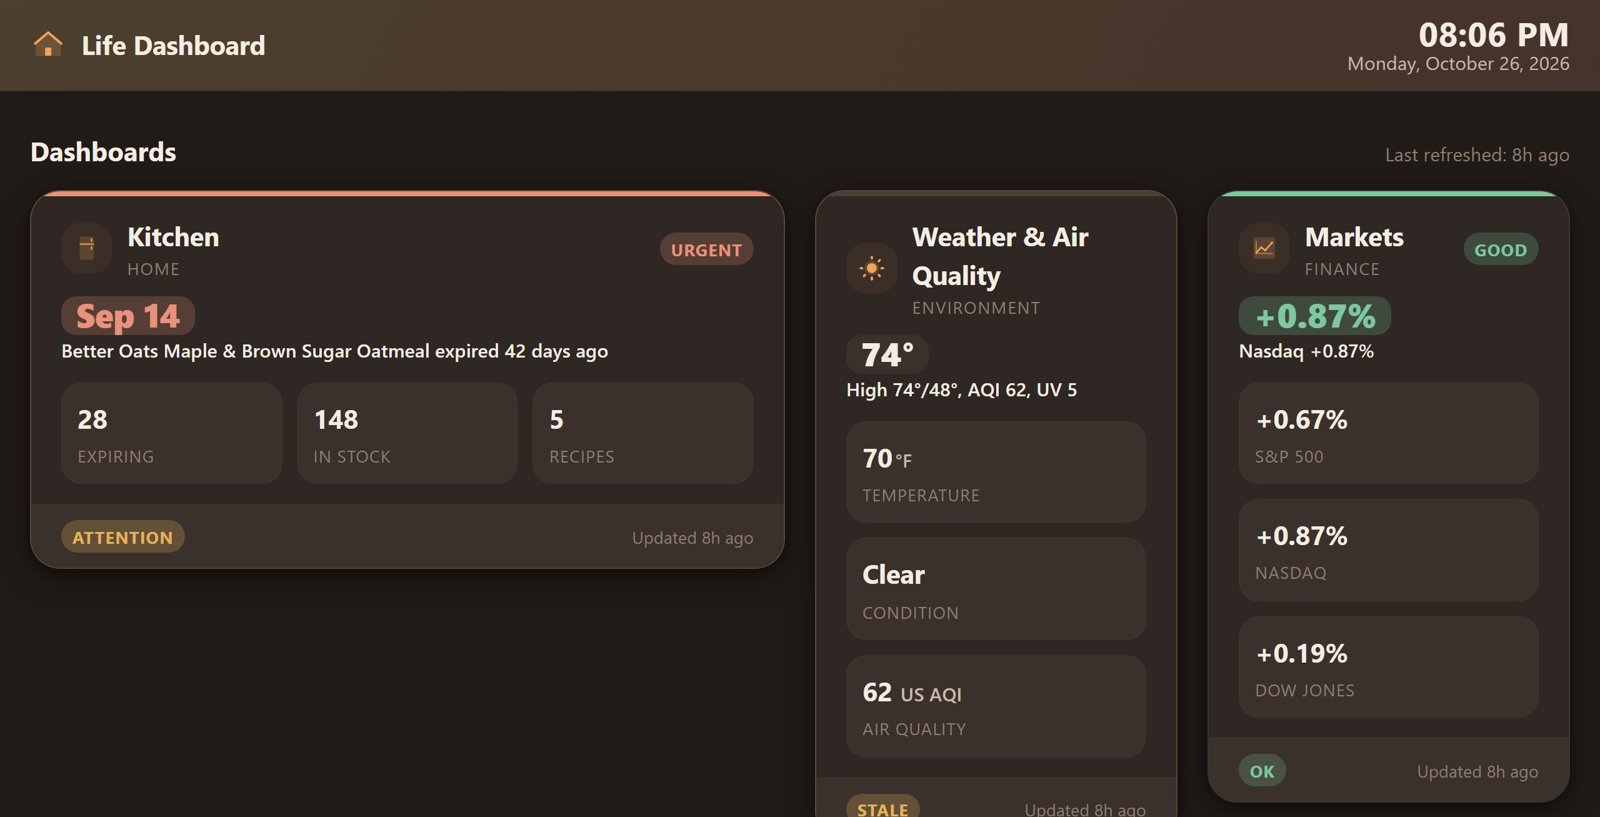
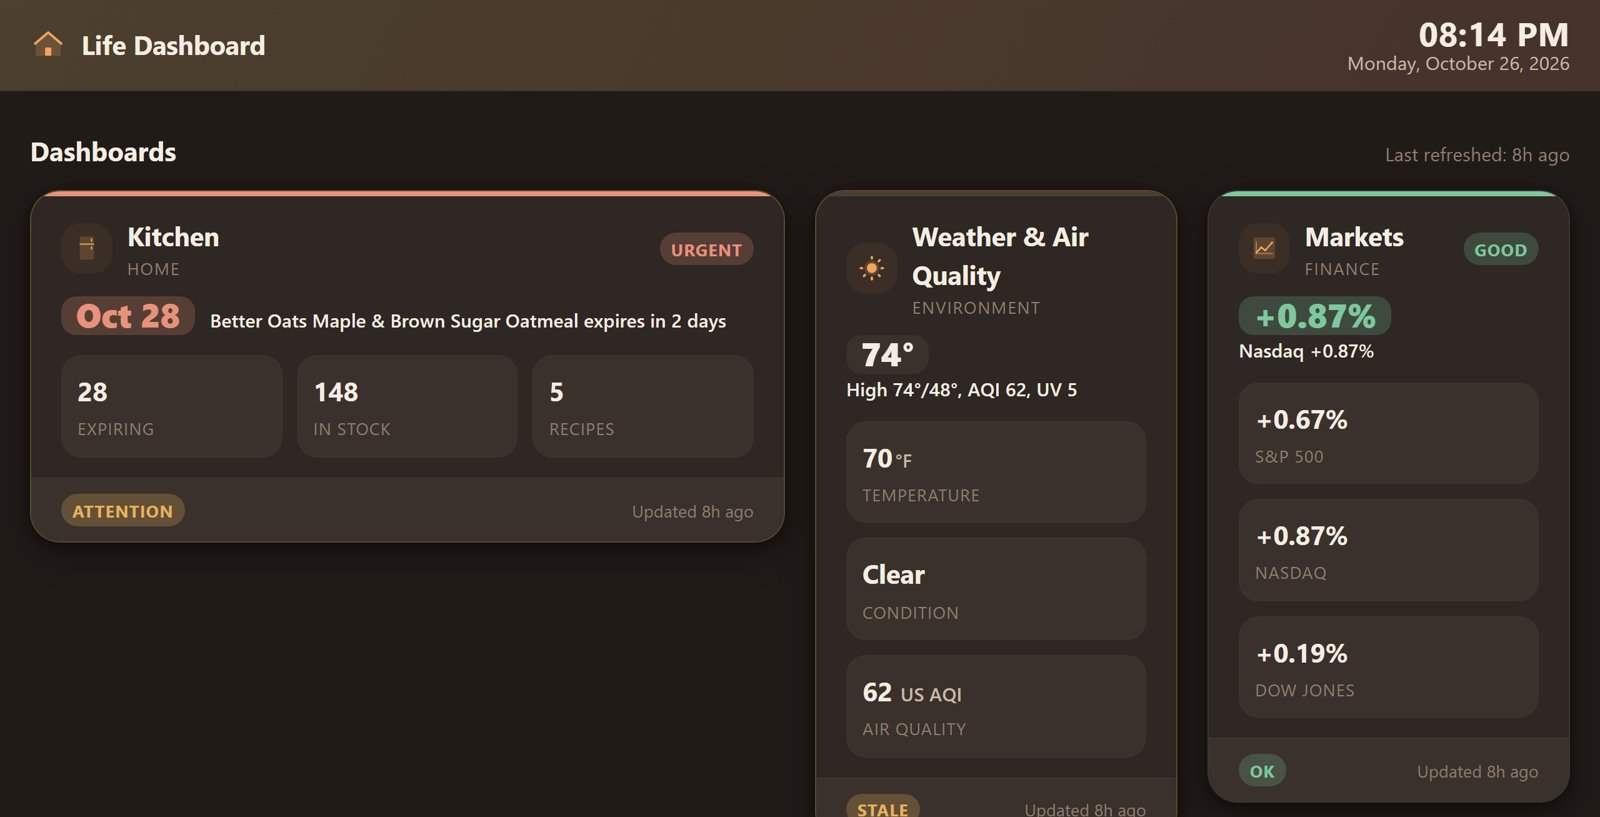
Update screenshots and drop 'My part' labels

Changed region(s): [[0.0, 0.3672, 0.5, 0.7038], [0.9062, 0.0306, 0.9375, 0.0612]]

diff --git a/README.md b/README.md
@@ -21,7 +21,7 @@ This is the workflow my B2B outreach runs on, built with OpenAI Codex. For each 
 
 I review every batch by hand before anything goes out.
 
-**My part:** I wrote the scoring rules and the program "expert" instructions the agents use, and I review the agents' output. I decide what gets sent.
+I wrote the scoring rules and the program "expert" instructions the agents use, and I review the agents' output. I decide what gets sent.
 
 *It runs on my employer's prospect data, so there's no public code or sample output.*
 
@@ -38,7 +38,7 @@ A nightly pipeline built with Claude Code and OpenRouter. It finds US sweepstake
 - Keeps personal details on my machine and out of the catalog
 - Leaves CAPTCHAs to a person; the software never solves them
 
-**My part:** product rules, architecture decisions (for example, keeping personal data separate from the shared catalog), the budget guardrails, and the QA checks.
+product rules, architecture decisions (for example, keeping personal data separate from the shared catalog), the budget guardrails, and the QA checks.
 
 ![RaffleReady's stats view: every rate is shown with the number it was divided by](images/raffleready-stats.jpg)
 
@@ -54,9 +54,9 @@ Nine single-purpose dashboards (calendar, inbox, reminders, kitchen inventory, w
 - The screen only displays static files, so if a data source fails, the last good version keeps showing
 - Each dashboard flags its own status (OK, Attention, Urgent, Stale) so problems are obvious at a glance
 
-![Life Dashboard home screen (personal tiles hidden)](images/life-dashboard.jpg)
+![Life Dashboard home screen (personal tiles hidden; sample kitchen item)](images/life-dashboard.jpg)
 
-**My part:** deciding what each dashboard tracks and flags, and how it should look and behave on the wall screen.
+deciding what each dashboard tracks and flags, and how it should look and behave on the wall screen.
 
 ---
 
@@ -67,9 +67,9 @@ Type or say what you ate ("2 eggs and sourdough toast with butter") and it logs 
 - The meal parser is measured against a 110-case test set: 90% item-level accuracy, and meals filed to the right slot (breakfast, lunch, dinner, snack) 96.6% of the time
 - Prompt changes are re-scored against the same test set, so improvements are measured, not guessed
 
-![Bite's Today and Edit Item screens](images/bite-meal-logging.jpg)
+![Bite: Today, Edit Item, and dark mode](images/bite-meal-logging.jpg)
 
-**My part:** the product definition, testing each build on my phone and writing up what broke, and deciding what's good enough to move forward.
+the product definition, testing each build on my phone and writing up what broke, and deciding what's good enough to move forward.
 
 ---
 
@@ -77,9 +77,11 @@ Type or say what you ate ("2 eggs and sourdough toast with butter") and it logs 
 
 A typing incremental game about climbing the corporate ladder. Yes, there's a sales-call minigame. It's unreleased and aimed at Steam.
 
-![Sales-call minigame in Corporate Climb](images/corporate-climb-sales-call.png)
+![Corporate Climb: answering mail at the desk while the phone rings](images/corporate-climb-desk.jpg)
 
-**My part:** I write the game design and the specs, playtest it, and decide what changes. Claude Code agents write and test all the code, including a balance simulator that checks the game's pacing math.
+![Corporate Climb: the Skill Tree](images/corporate-climb-skill-tree.jpg)
+
+I write the game design and the specs, playtest it, and decide what changes. Claude Code agents write and test all the code, including a balance simulator that checks the game's pacing math.
 
 ---
 
